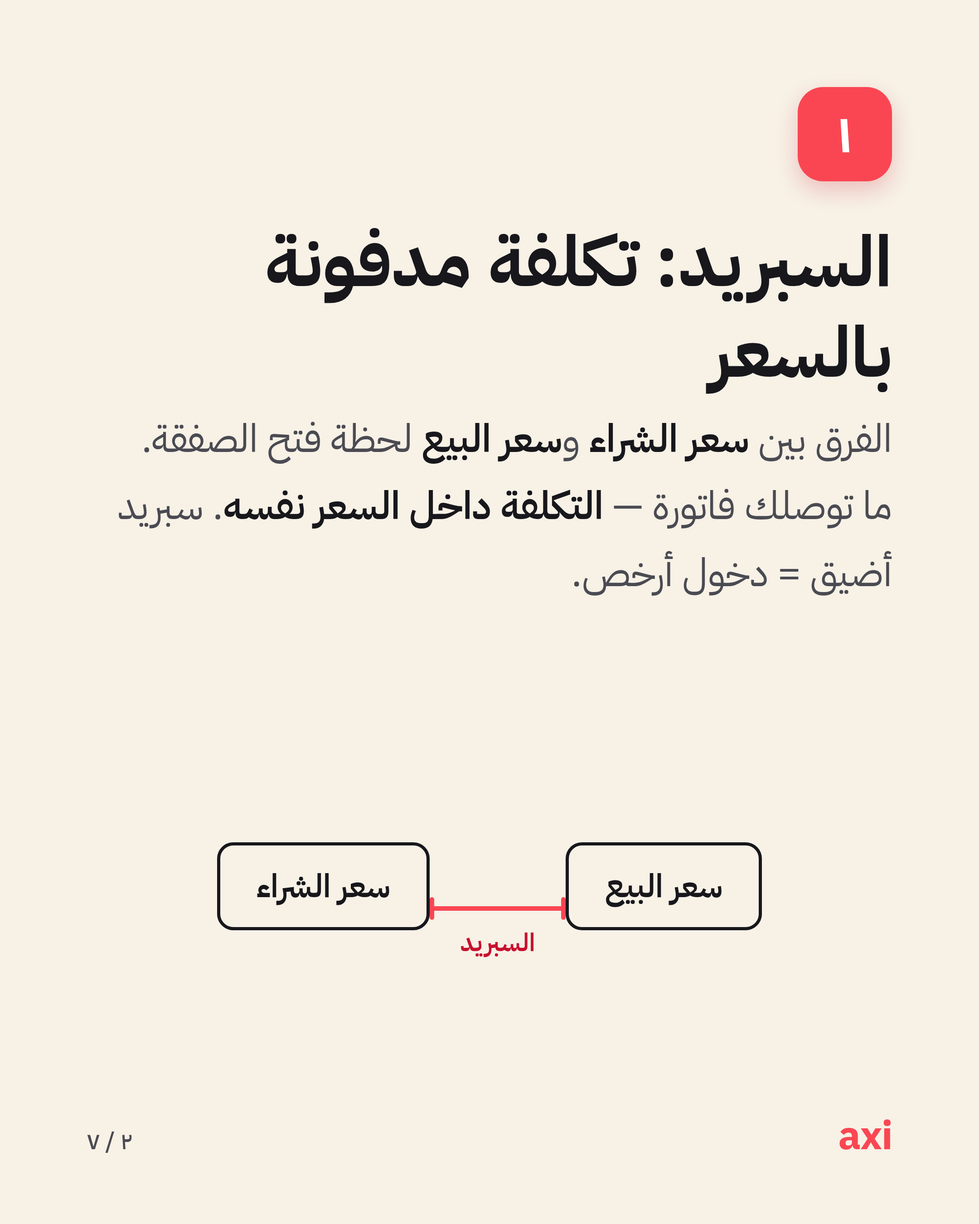
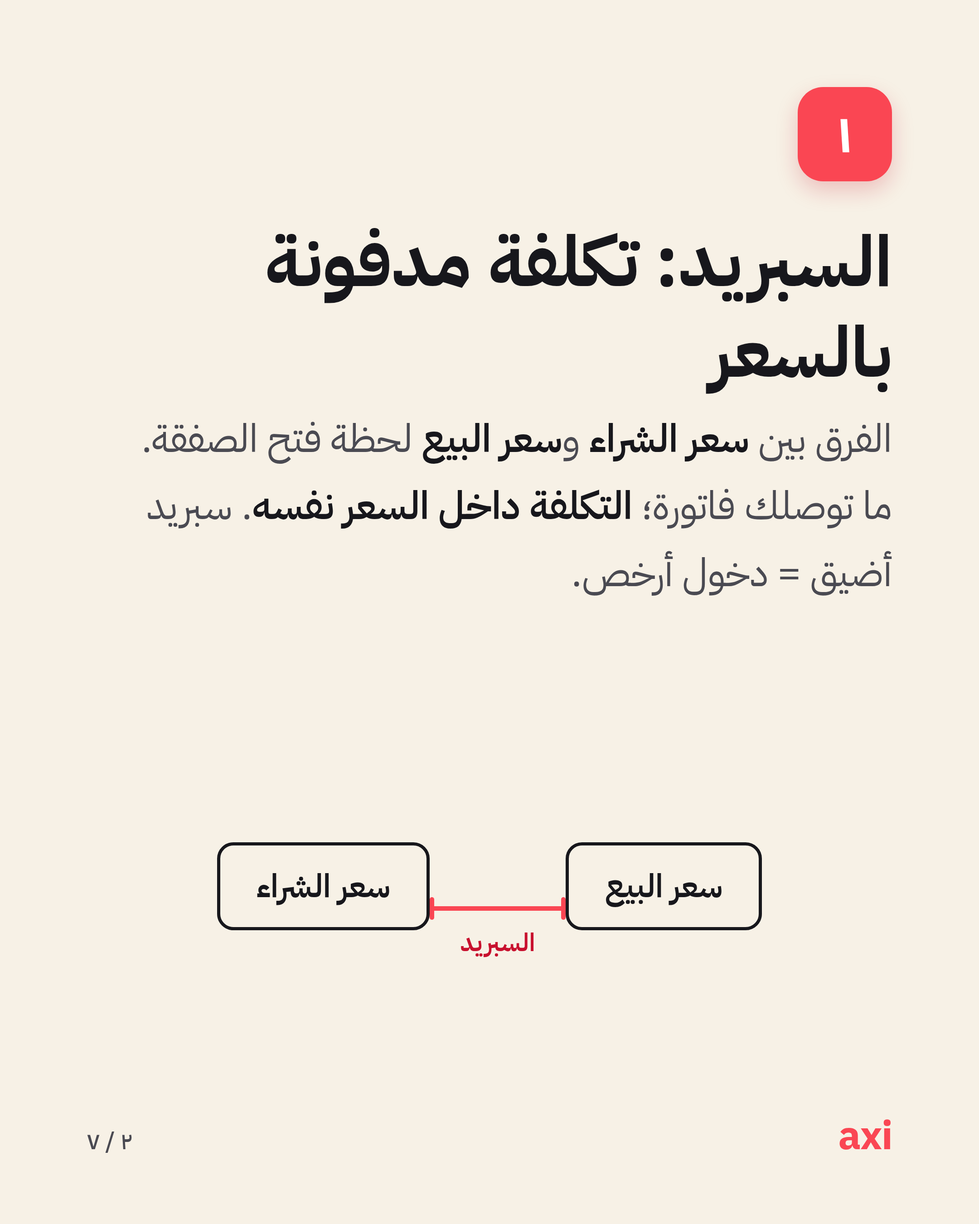
Apply standing copy rules: no em-dashes anywhere, neutral address in C3
Removed every em-dash from C1/C2/C3 artwork and re-rendered affected
slides; reworked C3 to neutral address (feminine direct address stays in
the campaign film, stories and portraits); recorded both rules in the
brand foundation, design system, campaign and carousel docs.

Claude-Session: https://claude.ai/code/session_01YQbTYyRLFBzRKe3Q9UX6qe

Changed region(s): [[0.1241, 0.4044, 0.6514, 0.4356]]

diff --git a/axi-iraq/september-2026/assets/c3/c3-template.html b/axi-iraq/september-2026/assets/c3/c3-template.html
@@ -108,9 +108,9 @@
 <section class="slide cover red" id="s1">
   <div class="kick2"><span class="rule"></span><span><span class="mark">عن دراية<svg viewBox="0 0 200 14" preserveAspectRatio="none"><path d="M4 9 C 45 3, 85 13, 125 7 S 185 5, 196 8" fill="none" stroke="#F7F1E6" stroke-width="6" stroke-linecap="round"/></svg></span></span></div>
   <div class="giant">؟</div>
-  <h1 style="max-width:760px"><span class="lite" style="font-size:58px">قبل ما تدخلين أي سوق…</span> ٥ أسئلة اسأليها</h1>
-  <div class="sub" style="max-width:680px">حملة <span class="mark">عن دراية<svg viewBox="0 0 200 14" preserveAspectRatio="none"><path d="M4 9 C 45 3, 85 13, 125 7 S 185 5, 196 8" fill="none" stroke="#F7F1E6" stroke-width="6" stroke-linecap="round"/></svg></span> — المعرفة قبل القرار</div>
-  <div class="swipe">اسحبي
+  <h1 style="max-width:760px"><span class="lite" style="font-size:58px">قبل ما تدخل أي سوق…</span> ٥ أسئلة اسأليها</h1>
+  <div class="sub" style="max-width:680px">حملة <span class="mark">عن دراية<svg viewBox="0 0 200 14" preserveAspectRatio="none"><path d="M4 9 C 45 3, 85 13, 125 7 S 185 5, 196 8" fill="none" stroke="#F7F1E6" stroke-width="6" stroke-linecap="round"/></svg></span>: المعرفة قبل القرار</div>
+  <div class="swipe">اسحب
     <svg width="54" height="24" viewBox="0 0 54 24"><path class="sr" d="M50 12H8M16 4l-9 8 9 8" style="stroke:#F7F1E6"/></svg>
   </div>
   <div class="wm" style="-webkit-text-stroke-color:rgba(247,241,230,.12)">axi</div>
@@ -120,8 +120,8 @@
 <!-- S2 Q1 -->
 <section class="slide" id="s2">
   <div class="chip">١</div>
-  <h2>شنو تعرفين عن هذا السوق؟</h2>
-  <div class="qbody">مصدر معلومتچ منو؟ <b>منهج تتعلمينه خطوة بخطوة</b>، لو إشاعة من كروب؟ المعرفة اللي يُبنى عليها قرار، لازم يكون إلها <b>مصدر تعرفينه وتثقين بيه</b>.</div>
+  <h2>شنو تعرف عن هذا السوق؟</h2>
+  <div class="qbody">مصدر معلومتك منو؟ <b>منهج تتعلمه خطوة بخطوة</b>، لو إشاعة من كروب؟ المعرفة اللي يُبنى عليها قرار، لازم يكون إلها <b>مصدر تعرفه وتثق بيه</b>.</div>
   <div class="motif">
     <svg width="230" height="170" viewBox="0 0 230 170">
       <path d="M115 30 C 85 12, 40 12, 22 26 V138 C 40 124, 85 124, 115 142 C 145 124, 190 124, 208 26 v0" fill="none" stroke="#17171C" stroke-width="3.5" stroke-linejoin="round"/>
@@ -129,7 +129,7 @@
       <path d="M115 34v104" stroke="#17171C" stroke-width="3.5"/>
       <path d="M44 52h48M44 76h48M138 52h48M138 76h48" stroke="#FA4653" stroke-width="5" stroke-linecap="round"/>
     </svg>
-    <div class="caption">منهج له مصدر — مو إشاعة</div>
+    <div class="caption">منهج له مصدر، مو إشاعة</div>
   </div>
   <div class="footer"><div class="wordmark">axi</div><div class="counter">٢ / ٨</div></div>
 </section>
@@ -137,15 +137,15 @@
 <!-- S3 Q2 -->
 <section class="slide" id="s3">
   <div class="chip">٢</div>
-  <h2>شكد تكدرين تخسرين بلا ما يتأثر بيتچ؟</h2>
-  <div class="qbody">رأس المال المسموح بيه هو المبلغ اللي لو راح، <b>ما يتأثر بيتچ ولا التزاماتچ</b>. حدديه قبل أي خطوة — هذا مو تشاؤم، <b>هذي حماية</b>.</div>
+  <h2>شكد تكدر تخسر بلا ما يتأثر بيتك؟</h2>
+  <div class="qbody">رأس المال المسموح بيه هو المبلغ اللي لو راح، <b>ما يتأثر بيتك ولا التزاماتك</b>. حدده قبل أي خطوة. هذا مو تشاؤم، <b>هذي حماية</b>.</div>
   <div class="motif">
     <svg width="230" height="180" viewBox="0 0 230 180">
       <path d="M115 16 L200 78 V168 H30 V78 Z" fill="none" stroke="#17171C" stroke-width="3.5" stroke-linejoin="round"/>
       <path d="M84 168 V118 h62 v50" fill="none" stroke="#17171C" stroke-width="3.5"/>
       <path d="M95 88 l14 14 28 -32" fill="none" stroke="#FA4653" stroke-width="6" stroke-linecap="round" stroke-linejoin="round"/>
     </svg>
-    <div class="caption">البيت أولاً — دائماً</div>
+    <div class="caption">البيت أولاً، دائماً</div>
   </div>
   <div class="footer"><div class="wordmark">axi</div><div class="counter">٣ / ٨</div></div>
 </section>
@@ -153,8 +153,8 @@
 <!-- S4 Q3 -->
 <section class="slide" id="s4">
   <div class="chip">٣</div>
-  <h2>شنو خطتچ إذا غلطتي؟</h2>
-  <div class="qbody">المتداولة الواعية تقرر <b>نقطة الخروج قبل الدخول</b> — وقف الخسارة قرار مسبق يحمي رأس المال. <b>الخطة تنكتب قبل الصفقة</b>، مو بعدها.</div>
+  <h2>شنو خطتك إذا غلطت؟</h2>
+  <div class="qbody">المتداول الواعي يقرر <b>نقطة الخروج قبل الدخول</b>: وقف الخسارة قرار مسبق يحمي رأس المال. <b>الخطة تنكتب قبل الصفقة</b>، مو بعدها.</div>
   <div class="motif">
     <svg width="320" height="170" viewBox="0 0 320 170">
       <path d="M30 140 C 90 140, 110 60, 170 60 S 260 100, 290 40" fill="none" stroke="#17171C" stroke-width="3.5" stroke-dasharray="14 12" stroke-linecap="round"/>
@@ -162,7 +162,7 @@
       <rect x="272" y="22" width="36" height="36" rx="9" fill="none" stroke="#FA4653" stroke-width="5"/>
       <path d="M282 40h16M290 32v16" stroke="#FA4653" stroke-width="5" stroke-linecap="round"/>
     </svg>
-    <div class="caption">الخروج مرسوم قبل ما تبدين</div>
+    <div class="caption">الخروج مرسوم قبل ما تبدأ</div>
   </div>
   <div class="footer"><div class="wordmark">axi</div><div class="counter">٤ / ٨</div></div>
 </section>
@@ -171,7 +171,7 @@
 <section class="slide" id="s5">
   <div class="chip">٤</div>
   <h2>منو المستفيد من النصيحة المجانية؟</h2>
-  <div class="qbody">إذا أحد يوزّع «توصيات مضمونة» ببلاش — اسألي: <b>شنو مصلحته؟</b> الوعد المضمون بالأسواق <b>إشارة خطر، مو فرصة</b>.</div>
+  <div class="qbody">إذا أحد يوزّع «توصيات مضمونة» ببلاش، اسأل: <b>شنو مصلحته؟</b> الوعد المضمون بالأسواق <b>إشارة خطر، مو فرصة</b>.</div>
   <div class="motif">
     <svg width="200" height="200" viewBox="0 0 200 200">
       <path d="M100 14 v96 a38 38 0 0 0 76 0 v-12" fill="none" stroke="#17171C" stroke-width="3.5" stroke-linecap="round"/>
@@ -187,8 +187,8 @@
 <!-- S6 Q5 -->
 <section class="slide" id="s6">
   <div class="chip">٥</div>
-  <h2>تكدرين تشرحين قرارچ بجملة وحدة؟</h2>
-  <div class="qbody">إذا ما تنشرح ببساطة، <b>بعدها مو قرارچ</b>. الوضوح علامة الفهم — والغموض علامة إن الموضوع يحتاج <b>تعلّم أكثر، مو جرأة أكثر</b>.</div>
+  <h2>تكدر تشرح قرارك بجملة وحدة؟</h2>
+  <div class="qbody">إذا ما تنشرح ببساطة، <b>بعده مو قرارك</b>. الوضوح علامة الفهم، والغموض علامة إن الموضوع يحتاج <b>تعلّم أكثر، مو جرأة أكثر</b>.</div>
   <div class="motif">
     <svg width="260" height="170" viewBox="0 0 260 170">
       <rect x="20" y="20" width="220" height="100" rx="26" fill="none" stroke="#17171C" stroke-width="3.5"/>
@@ -204,7 +204,7 @@
 <section class="slide dark" id="s7">
   <div class="kick2"><span class="rule"></span><span><span class="mark">عن دراية<svg viewBox="0 0 200 14" preserveAspectRatio="none"><path d="M4 9 C 45 3, 85 13, 125 7 S 185 5, 196 8" fill="none" stroke="#FA4653" stroke-width="6" stroke-linecap="round"/></svg></span></span></div>
   <h2 style="margin-top:56px">الأسئلة مو ضعف.<br>الأسئلة منهج.</h2>
-  <div class="qbody" style="color:#C9C9D2">كل سؤال من هاي الخمسة خطوة نحو قرار مدروس — <b style="color:#fff">والقرار المدروس أقوى من القرار الشجاع.</b></div>
+  <div class="qbody" style="color:#C9C9D2">كل سؤال من هاي الخمسة خطوة نحو قرار مدروس. <b style="color:#fff">والقرار المدروس أقوى من القرار الشجاع.</b></div>
   <div class="motif">
     <svg width="300" height="150" viewBox="0 0 300 150">
       <path d="M20 130 h60 v-34 h60 v-34 h60 v-34 h60" fill="none" stroke="#F7F1E6" stroke-width="4" stroke-linecap="round"/>
@@ -218,12 +218,12 @@
 <section class="slide red" id="s8">
   <div class="kick2"><span class="rule"></span><span>الخلاصة</span></div>
   <h2 style="margin-top:56px;font-size:88px">قرار مدروس<br>أفضل من قرار شجاع.</h2>
-  <div class="body" style="margin-top:8px">خمسة أسئلة ترافقچ بكل سوق — مو بس التداول. احفظيها، وشاركيها ويّا صديقة تحتاجها.</div>
+  <div class="body" style="margin-top:8px">خمسة أسئلة ترافقك بكل سوق، مو بس التداول. احفظها، وشاركها ويّا من يحتاجها.</div>
   <div class="cta-box">
-    <div class="c1">ابدئي من الأساس — تعلّمي مجاناً</div>
+    <div class="c1">ابدأ من الأساس. تعلّم مجاناً</div>
     <div class="c2">Axi Academy: دورات منظمة + حساب تجريبي برصيد افتراضي <span class="ltr">$50,000</span></div>
   </div>
-  <div class="risk">[ نص إخلاء المسؤولية المعتمد من Axi — قيد الاعتماد · لا يُنشر هذا التصميم قبل إدراج النص ]</div>
+  <div class="risk">[ نص إخلاء المسؤولية المعتمد من Axi: قيد الاعتماد · لا يُنشر هذا التصميم قبل إدراج النص ]</div>
   <div class="bigmark" style="color:var(--cream);position:absolute;right:96px;bottom:170px;margin:0;font-size:64px"><span class="mark">عن دراية<svg viewBox="0 0 200 14" preserveAspectRatio="none"><path d="M4 9 C 45 3, 85 13, 125 7 S 185 5, 196 8" fill="none" stroke="#F7F1E6" stroke-width="6" stroke-linecap="round"/></svg></span></div>
   <div class="footer"><div class="wordmark">axi</div><div class="counter">٨ / ٨</div></div>
 </section>

diff --git a/axi-iraq/september-2026/assets/c2/c2-template.html b/axi-iraq/september-2026/assets/c2/c2-template.html
@@ -114,7 +114,7 @@
   <div class="kicker"><span class="rule"></span><span>شهر الأساسيات</span></div>
   <div class="giant">٣</div>
   <h1><span class="lite">وين تروح فلوسك؟</span> ٣ تكاليف بكل صفقة</h1>
-  <div class="sub">تكلفة التداول — بلا غموض</div>
+  <div class="sub">تكلفة التداول بلا غموض</div>
   <div class="swipe">اسحب
     <svg width="54" height="24" viewBox="0 0 54 24"><path class="sr" d="M50 12H8M16 4l-9 8 9 8"/></svg>
   </div>
@@ -126,7 +126,7 @@
 <section class="slide" id="s2">
   <div class="chip">١</div>
   <h2>السبريد: تكلفة مدفونة بالسعر</h2>
-  <div class="body">الفرق بين <b>سعر الشراء</b> و<b>سعر البيع</b> لحظة فتح الصفقة. ما توصلك فاتورة — <b>التكلفة داخل السعر نفسه</b>. سبريد أضيق = دخول أرخص.</div>
+  <div class="body">الفرق بين <b>سعر الشراء</b> و<b>سعر البيع</b> لحظة فتح الصفقة. ما توصلك فاتورة؛ <b>التكلفة داخل السعر نفسه</b>. سبريد أضيق = دخول أرخص.</div>
   <div class="dg">
     <div class="row" style="margin-bottom:90px;">
       <div class="pillbox">سعر البيع</div>
@@ -143,8 +143,8 @@
 <section class="slide" id="s3">
   <div class="chip">٢</div>
   <h2>العمولة: رسم واضح لكل صفقة</h2>
-  <div class="body">بعض أنواع الحسابات تجمع <b>سبريد أضيق + عمولة ثابتة</b>، وبعضها <b>بلا عمولة وسبريد أوسع</b>. لا تقارن رقماً واحداً — <b>قارن المجموع الكلي</b>.</div>
-  <div class="tag">الأرقام حسب نوع الحساب — راجع موقع Axi الرسمي</div>
+  <div class="body">بعض أنواع الحسابات تجمع <b>سبريد أضيق + عمولة ثابتة</b>، وبعضها <b>بلا عمولة وسبريد أوسع</b>. لا تقارن رقماً واحداً، <b>قارن المجموع الكلي</b>.</div>
+  <div class="tag">الأرقام حسب نوع الحساب، راجع موقع Axi الرسمي</div>
   <div class="dg">
     <div class="row">
       <div class="acc"><h4>حساب أ</h4><p>سبريد أضيق<br>+ عمولة ثابتة</p></div>
@@ -160,7 +160,7 @@
 <section class="slide" id="s4">
   <div class="chip">٣</div>
   <h2>السواب: تكلفة تعبر الليل</h2>
-  <div class="body">إذا بقت صفقتك مفتوحة لليوم التالي، يُحتسب <b>سواب</b> — تكلفة أو رصيد حسب <b>فرق الفائدة بين العملتين</b>. صفقات اليوم الواحد ما تدفعه أصلاً.</div>
+  <div class="body">إذا بقت صفقتك مفتوحة لليوم التالي، يُحتسب <b>سواب</b>: تكلفة أو رصيد حسب <b>فرق الفائدة بين العملتين</b>. صفقات اليوم الواحد ما تدفعه أصلاً.</div>
   <div class="fnote">تبحث عن حساب بلا سواب؟ اسأل عن الحسابات الإسلامية وشروطها المعتمدة.</div>
   <div class="dg">
     <div class="tl">
@@ -191,7 +191,7 @@
 <section class="slide dark" id="s6">
   <div class="kicker" style="color:var(--red)"><span class="rule"></span><span>قاعدة الثقة</span></div>
   <h2 style="margin-top:56px">الوسيط الموثوق<br>يعلن تكاليفه.</h2>
-  <div class="body">إذا أحد وعدك: <b>«بلا تكاليف، بلا مخاطر، وأرباح مضمونة»</b> — هاي مو فرصة. <b>هاي إشارة خطر.</b></div>
+  <div class="body">إذا أحد وعدك <b>«بلا تكاليف، بلا مخاطر، وأرباح مضمونة»</b>، اعرف: هاي مو فرصة. <b>هاي إشارة خطر.</b></div>
   <div class="diagram">
     <svg width="300" height="270" viewBox="0 0 300 270">
       <path d="M150 25 L280 245 H20 Z" fill="none" stroke="#F7F1E6" stroke-width="4" stroke-linejoin="round"/>
@@ -208,10 +208,10 @@
   <h2 style="margin-top:60px;font-size:96px">اعرف التكلفة قبل الفرصة.</h2>
   <div class="body" style="margin-top:8px">التكلفة الواضحة علامة احترام لعقلك. احفظ الدليل، وشاركه ويّا من يبدأ.</div>
   <div class="cta-box">
-    <div class="c1">تفاصيل أنواع الحسابات والتكاليف — موقع Axi الرسمي</div>
+    <div class="c1">تفاصيل أنواع الحسابات والتكاليف على موقع Axi الرسمي</div>
     <div class="c2">وتدرّب ببلاش: حساب تجريبي برصيد افتراضي <span class="ltr">$50,000</span></div>
   </div>
-  <div class="risk">[ نص إخلاء المسؤولية المعتمد من Axi — قيد الاعتماد · لا يُنشر هذا التصميم قبل إدراج النص ]</div>
+  <div class="risk">[ نص إخلاء المسؤولية المعتمد من Axi: قيد الاعتماد · لا يُنشر هذا التصميم قبل إدراج النص ]</div>
   <div class="wm" style="-webkit-text-stroke-color:rgba(247,241,230,.14)">axi</div>
   <div class="footer"><div class="wordmark">axi</div><div class="counter">٧ / ٧</div></div>
 </section>

diff --git a/axi-iraq/september-2026/assets/c1/c1-template.html b/axi-iraq/september-2026/assets/c1/c1-template.html
@@ -144,7 +144,7 @@
 <section class="slide" id="s4">
   <div class="chip">٣</div>
   <h2>النقطة (Pip): وحدة قياس الحركة</h2>
-  <div class="body">أصغر حركة قياسية في سعر الزوج — غالباً <b>الخانة العشرية الرابعة</b>. من <span class="ltr">1.0850</span> إلى <span class="ltr">1.0851</span> = حركة بمقدار <b>نقطة واحدة</b>.</div>
+  <div class="body">أصغر حركة قياسية في سعر الزوج، وغالباً هي <b>الخانة العشرية الرابعة</b>. من <span class="ltr">1.0850</span> إلى <span class="ltr">1.0851</span> = حركة بمقدار <b>نقطة واحدة</b>.</div>
   <div class="tag">مثال توضيحي فقط</div>
   <div class="diagram">
     <svg width="620" height="230" viewBox="0 0 620 230">
@@ -161,7 +161,7 @@
 <section class="slide" id="s5">
   <div class="chip">٤</div>
   <h2>السبريد: تكلفة الدخول</h2>
-  <div class="body">الفرق بين <b>سعر الشراء</b> و<b>سعر البيع</b> بنفس اللحظة. هذه أول تكلفة في أي صفقة — وكل ما كان السبريد أضيق، كانت تكلفتك أقل.</div>
+  <div class="body">الفرق بين <b>سعر الشراء</b> و<b>سعر البيع</b> بنفس اللحظة. هذه أول تكلفة في أي صفقة. وكل ما كان السبريد أضيق، كانت تكلفتك أقل.</div>
   <div class="dg">
     <div class="row" style="margin-bottom:90px;">
       <div class="pillbox">سعر البيع</div>
@@ -178,14 +178,14 @@
 <section class="slide" id="s6">
   <div class="chip">٥</div>
   <h2>الحساب التجريبي: تدرّب قبل ما تخاطر</h2>
-  <div class="body">حساب بأموال <b>افتراضية</b> يحاكي السوق الحقيقي. Axi توفّر حساباً تجريبياً مجانياً برصيد افتراضي <span class="ltr"><b>$50,000</b></span> — جرّب، اغلط، وتعلّم بدون خسارة حقيقية.</div>
+  <div class="body">حساب بأموال <b>افتراضية</b> يحاكي السوق الحقيقي. Axi توفّر حساباً تجريبياً مجانياً برصيد افتراضي <span class="ltr"><b>$50,000</b></span>: جرّب، اغلط، وتعلّم بدون خسارة حقيقية.</div>
   <div class="diagram" style="flex-direction:column;align-items:center;">
     <svg width="600" height="240" viewBox="0 0 600 240">
       <rect class="st" x="110" y="30" width="380" height="180" rx="22" stroke-dasharray="16 14"/>
       <path class="sr" d="M170 160 L250 110 L310 135 L430 70"/>
       <circle class="fr" cx="430" cy="70" r="9"/>
       </svg>
-    <div class="caption">بيئة تدريب آمنة — أرقام افتراضية بالكامل</div>
+    <div class="caption">بيئة تدريب آمنة، أرقام افتراضية بالكامل</div>
   </div>
   <div class="footer"><div class="wordmark">axi</div><div class="counter">٦ / ٨</div></div>
 </section>
@@ -194,7 +194,7 @@
 <section class="slide dark" id="s7">
   <div class="kicker" style="color:var(--red)"><span class="rule"></span><span>القاعدة الذهبية</span></div>
   <h2 style="margin-top:56px">لا تخاطر بمبلغ<br>ما تتحمّل خسارته.</h2>
-  <div class="body">الخسارة جزء طبيعي من أي سوق. المتداول الواعي يحدّد <b>حجم المخاطرة أولاً</b> — قبل أن يفكّر بأي عائد.</div>
+  <div class="body">الخسارة جزء طبيعي من أي سوق. المتداول الواعي يحدّد <b>حجم المخاطرة أولاً</b>، قبل أن يفكّر بأي عائد.</div>
   <div class="diagram">
     <svg width="300" height="300" viewBox="0 0 300 300">
       <path d="M150 30l95 38v70c0 62-40 110-95 132-55-22-95-70-95-132V68z" fill="none" stroke="#F7F1E6" stroke-width="4"/>
@@ -210,10 +210,10 @@
   <h2 style="margin-top:60px;font-size:96px">الأساس قبل الطموح.</h2>
   <div class="body" style="margin-top:8px">خمس ركائز تعرفها اليوم، توفّر عليك دروساً مكلفة باچر. احفظ المنشور وشاركه ويّا من يحتاجه.</div>
   <div class="cta-box">
-    <div class="c1">ابدأ التعلّم مجاناً — Axi Academy</div>
+    <div class="c1">ابدأ التعلّم مجاناً مع Axi Academy</div>
     <div class="c2">دورات منظمة خطوة بخطوة + حساب تجريبي برصيد افتراضي <span class="ltr">$50,000</span></div>
   </div>
-  <div class="risk">[ نص إخلاء المسؤولية المعتمد من Axi — قيد الاعتماد · لا يُنشر هذا التصميم قبل إدراج النص ]</div>
+  <div class="risk">[ نص إخلاء المسؤولية المعتمد من Axi: قيد الاعتماد · لا يُنشر هذا التصميم قبل إدراج النص ]</div>
   <div class="wm" style="-webkit-text-stroke-color:rgba(247,241,230,.14)">axi</div>
   <div class="footer"><div class="wordmark">axi</div><div class="counter">٨ / ٨</div></div>
 </section>

diff --git a/axi-iraq/september-2026/06-carousels.md b/axi-iraq/september-2026/06-carousels.md
@@ -31,8 +31,8 @@
 
 ---
 
-## C3 · Mon 14 Sept · «٥ أسئلة اسأليها قبل ما تدخلين أي سوق» (women's campaign)
-**STRATEGY** — Objective: campaign's education core; feminine address throughout. Problem: women get cheerleading, not curriculum (eToro audit — file 04). Axi benefit: the brand that answers questions seriously. Save driver: a decision framework, useful far beyond trading. Commercial: sales PDF for female leads + partners' women networks.
+## C3 · Mon 14 Sept · «٥ أسئلة اسألها قبل ما تدخل أي سوق» (women's campaign, neutral address)
+**STRATEGY** — Objective: campaign's education core; NEUTRAL address per creative lead (the carousel teaches everyone; feminine address lives in film/stories/portraits). Problem: women get cheerleading, not curriculum (eToro audit — file 04). Axi benefit: the brand that answers questions seriously. Save driver: a decision framework, useful far beyond trading. Commercial: sales PDF for female leads + partners' women networks.
 **COVER** — Main: «٥ أسئلة اسأليها قبل أي سوق» + «عن دراية» mark · A: «قبل الشجاعة… المعرفة» · B: «قرارچ يستاهل أسئلة صح» · Visual: notebook + red underline device.
 **SLIDES** — 1 Cover · 2 «شنو أعرف عن هذا السوق؟» (مصدر معرفتچ منو؟ منهج ولا إشاعة؟) · 3 «شكد أكدر أخسر بلا ما يتأثر بيتي؟» (family-security framing — رأس المال المسموح به فقط) · 4 «شنو خطتي إذا غلطت؟» (وقف الخسارة كفكرة = قرار مسبق، مو توصية) · 5 «منو المستفيد من نصيحتي المجانية؟» (anti-scam: الإشارات المجانية والوعود المضمونة علامة خطر) · 6 «هل أقدر أشرح قراري بجملة وحدة؟» (إذا ما تقدرين تشرحينه، ما تملكينه بعد) · 7 «الأسئلة مو ضعف — الأسئلة منهج» (bridge to campaign film) · 8 FINAL — Takeaway: «عن دراية: قرار مدروس أفضل من قرار شجاع» · CTA: «ابدئي التعلم مجاناً» · `[RISK-AR]`.
 **SOCIAL** — Caption in feminine address; invite questions to the judgment-free Q&A sticker (that evening's story).

diff --git a/axi-iraq/september-2026/09-grid-design-system.md b/axi-iraq/september-2026/09-grid-design-system.md
@@ -32,6 +32,7 @@ No two same-family tiles sit adjacent in any row — the fixed weekly rhythm (Mo
 - **Latin/brand:** per Axi guidelines `[pending file]`.
 - **Arabic:** one family for everything, two weights. Recommended: **IBM Plex Sans Arabic** (free license, premium-neutral, excellent numerals) — swap only if the official guidelines name a licensed Arabic brand font. Display size for hooks, text size for education.
 - **Kurdish (Sorani, Arabic script):** SAME family IF glyph QA passes — test string: «ڕێگە، ورد، ھەڵە، ئێوارە، گۆڕان، چاڤ، ژیان، ڤیدیۆ، ە» — if any glyph fails, Kurdish uses **Noto Sans Arabic** (full coverage) at matched optical size. Never mix families within one asset.
+- **Punctuation rule:** the em-dash (—) never appears in published copy, any language. Use commas, colons, ؛ or split sentences.
 - **Numerals rule:** Western digits (1234) for ALL data — prices, %, dates, times (matches platforms and sources). Arabic-Indic (١٢٣٤) allowed only in editorial headlines/numerals-as-design (e.g., carousel covers «٥»). Never mixed inside one line.
 - **Type scale (9:16):** hook 64–80pt equivalent · support 36–44 · caption/source 24–28 · legal 20 minimum (legible on phone).
 

diff --git a/axi-iraq/september-2026/01-brand-foundation.md b/axi-iraq/september-2026/01-brand-foundation.md
@@ -22,7 +22,9 @@
 - **Axi Select sub-brand:** dark background, neon glow red, gold/yellow accent chevrons — usable for Select-specific content only.
 
 ### Voice
-- Arabic master: clear, modern, premium MSA with light Iraqi conversational color in hooks (شنو، خوش، هواي — sparingly); education copy stays clean and precise. No robotic formality, no heavy slang, no hype.
+- Arabic master: clear, modern, premium MSA with light Iraqi conversational color in hooks (شنو، خوش، هواي، sparingly); education copy stays clean and precise. No robotic formality, no heavy slang, no hype.
+- **Punctuation rule (standing, per creative lead):** never use the em-dash (—) in any published copy, any language, any asset. Use commas, colons, the Arabic semicolon (؛), or split the sentence.
+- **Address rule (standing, per creative lead):** feed carousels speak to everyone in neutral address, including women's-campaign carousels; direct feminine address is reserved for the campaign film, stories, portraits, and Q&A formats.
 - Kurdish: professionally translated from approved Arabic; must feel natively designed (file 09 covers layout adaptation).
 
 ---

diff --git a/axi-iraq/september-2026/04-womens-campaign.md b/axi-iraq/september-2026/04-womens-campaign.md
@@ -107,7 +107,7 @@
 | Date | Asset |
 |---|---|
 | Sun 14? — no: **Sun 13** | Announce post: campaign mark + manifesto caption (why this campaign, in her address) |
-| Mon 14 | **Carousel C3:** «٥ أسئلة اسأليها قبل ما تدخلين أي سوق» (works as sales-support PDF too — file 06) |
+| Mon 14 | **Carousel C3:** «٥ أسئلة اسألها قبل ما تدخل أي سوق» — *neutral address per creative lead decision (Aug 2026): the carousel teaches everyone; feminine direct address lives in the film, stories, portraits and Q&A* (works as sales-support PDF too — file 06) |
 | Wed 16 | **Hero film «الأسئلة الصح»** (HV3 slot) |
 | Thu 17 | Portrait post 1 — «من دفترها»: photo essay of preparation (journal, checklist, tea, screen) + her one-line quote about learning |
 | Thu 24 | Portrait post 2 + community close: selected (anonymized) audience questions from the Q&A designed as a shareable carousel-lite |
